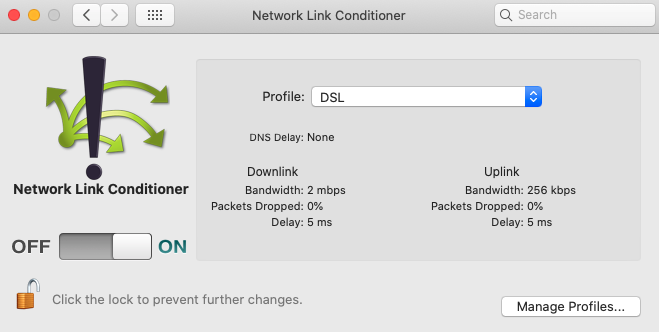
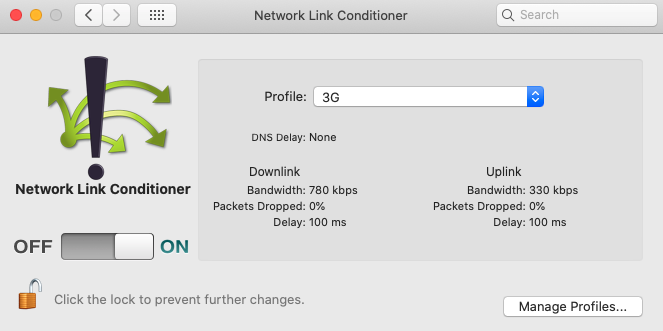
No optimisation structure

diff --git a/README.md b/README.md
@@ -9,10 +9,20 @@ Guide for using the API : https://medium.com/flutterpub/architecting-your-flutte
 BLoC infinite list : https://bloclibrary.dev/#/flutterinfinitelisttutorial
 
 
+## Without any optimisation of the structure of the code
+
+![](3g-no-optimisation.gif)
+
+
+![](3g-no-optimisation-2.gif)
+
+
 Setup slow internet : 
 - https://medium.com/macoclock/ios-simulator-simulates-slow-network-connection-615f910a2f43<br/>
 - https://developer.apple.com/download/more/?=for%20Xcode<br/>
 - Download Additional_Tools_for_Xcode then install Hardware > Network Link Conditioner.prefPane
 
 ![](assets/network-link-1.png)
+
+
 ![](assets/network-link-2.png)
